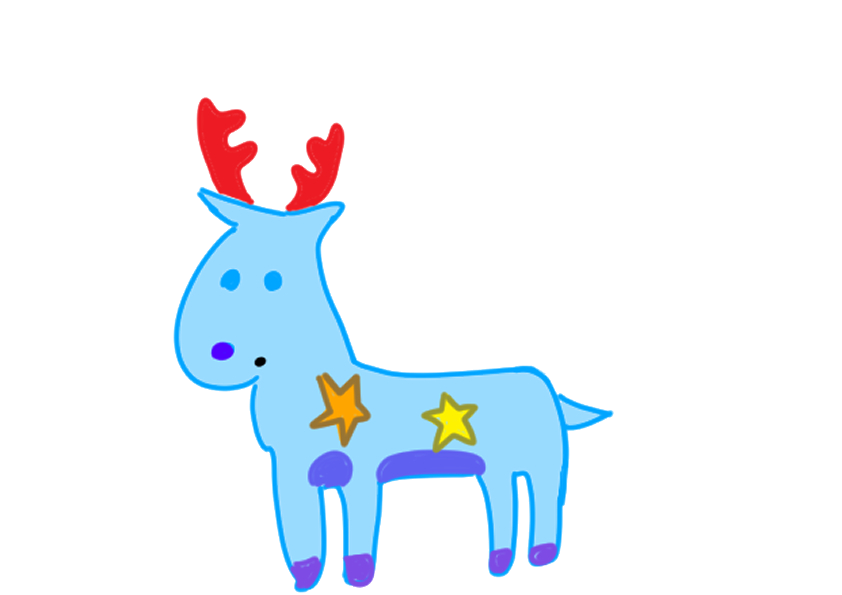
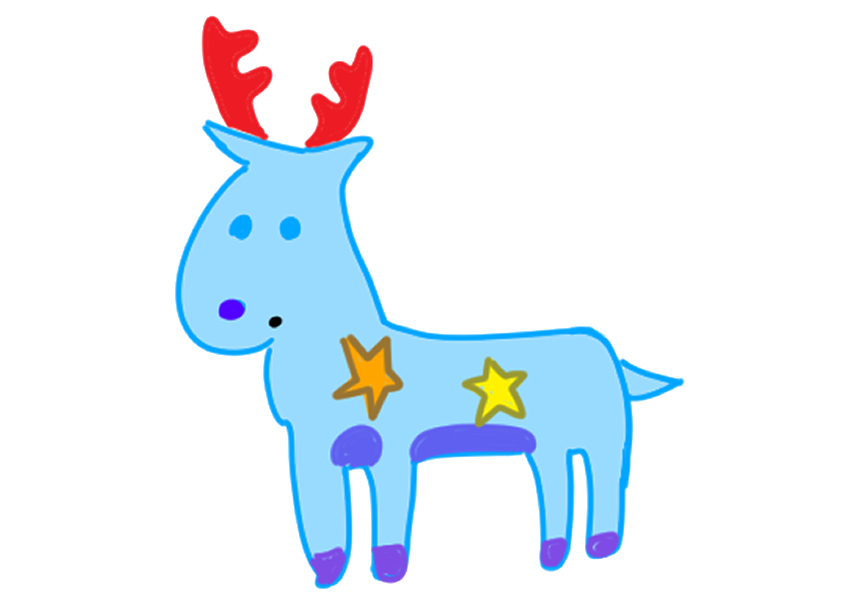
Replace slot 20 art with final reindeer, transparent background
Latest umo.jpg processed with the border flood-fill cutout.
Service worker cache bumped to v7.

Changed region(s): [[0.1853, 0.0303, 0.8337, 0.9983]]

diff --git a/sw.js b/sw.js
@@ -1,4 +1,4 @@
-const CACHE_NAME = 'wakemon-cache-v6';
+const CACHE_NAME = 'wakemon-cache-v7';
 const APP_SHELL = [
   './',
   './index.html',
